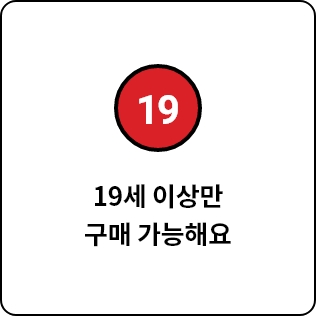
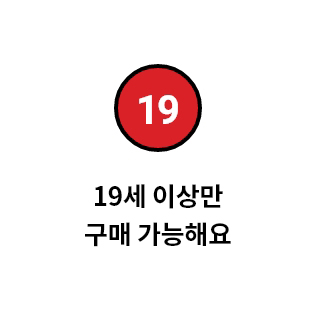
22.06.28

diff --git a/kyobo/mok/html/guide/00_products_list.html b/kyobo/mok/html/guide/00_products_list.html
@@ -132,7 +132,7 @@
                 <li class="prod_item"><!-- 22.05.11 성인 class 삭제 -->
                     <!-- product_pic -->
                     <div class="product_pic">
-                        <a href="javascript:alert('19세');"><img src="../../images/guide/img_19.jpg" class="bd_img" alt=""></a><!-- 22.05.11 수정 -->
+                        <a href="javascript:alert('19세');"><img src="../../images/guide/img_19.jpg" class="bd_img ob_19" alt=""></a><!-- 22.05.11 수정 -->
                     </div>
                     <!-- //product_pic -->
 
@@ -406,7 +406,7 @@
                             <div class="icon"></div>
                             <div class="txt">80</div>
                         </button> 
-                        <a href="javascript:alert('19세');"><img src="../../images/guide/img_19.jpg" class="bd_img" alt=""></a><!-- 22.05.11 수정 -->
+                        <a href="javascript:alert('19세');"><img src="../../images/guide/img_19.jpg" class="bd_img ob_19" alt=""></a><!-- 22.05.11 수정 -->
                     </div>
                     <!-- //product_pic -->
 
@@ -678,7 +678,7 @@
                 <li class="prod_item"><!-- 22.05.11 성인 class 삭제 -->
                     <!-- product_pic -->
                     <div class="product_pic">
-                        <a href="javascript:alert('19세');"><img src="../../images/guide/img_19.jpg" class="bd_img" alt=""></a><!-- 22.05.11 수정 -->
+                        <a href="javascript:alert('19세');"><img src="../../images/guide/img_19.jpg" class="bd_img ob_19" alt=""></a><!-- 22.05.11 수정 -->
                     </div>
                     <!-- //product_pic -->
 
@@ -961,7 +961,7 @@
                 <li class="module6_item">
                     <!-- product_pic -->
                     <div class="product_pic">
-                        <a href="javascript:alert('19세');"><img src="../../images/guide/img_19.jpg" class="bd_img" alt=""></a><!-- 22.05.11 수정 -->
+                        <a href="javascript:alert('19세');"><img src="../../images/guide/img_19.jpg" class="bd_img ob_19" alt=""></a><!-- 22.05.11 수정 -->
                     </div>
                     <!-- //product_pic -->
 
@@ -1725,7 +1725,7 @@
 
                     <!-- product_pic -->
                     <div class="product_pic">
-                        <a href="javascript:alert('19세');"><img src="../../images/guide/img_19.jpg" class="bd_img" alt=""></a><!-- 22.05.11 수정 -->
+                        <a href="javascript:alert('19세');"><img src="../../images/guide/img_19.jpg" class="bd_img ob_19" alt=""></a><!-- 22.05.11 수정 -->
                     </div>
                     <!-- //product_pic -->
 
@@ -2130,7 +2130,7 @@
 
                     <!-- product_pic -->
                     <div class="product_pic">
-                        <a href="javascript:alert('19세');"><img src="../../images/guide/img_19.jpg" class="bd_img" alt=""></a><!-- 22.05.11 수정 -->
+                        <a href="javascript:alert('19세');"><img src="../../images/guide/img_19.jpg" class="bd_img ob_19" alt=""></a><!-- 22.05.11 수정 -->
                     </div>
                     <!-- //product_pic -->
 
@@ -2525,7 +2525,7 @@
                             <div class="icon"></div>
                             <div class="txt">80</div>
                         </button> 
-                        <a href="javascript:alert('19세');"><img src="../../images/guide/img_19.jpg" class="bd_img" alt=""><div class="cpon">쿠폰 10%</div></a><!-- 22.05.11 수정 -->
+                        <a href="javascript:alert('19세');"><img src="../../images/guide/img_19.jpg" class="bd_img ob_19" alt=""><div class="cpon">쿠폰 10%</div></a><!-- 22.05.11 수정 -->
                     </div>
                     <!-- //product_pic -->
 

diff --git a/kyobo/mok/html/music/HTR-M-MUS-MAIN-000.html b/kyobo/mok/html/music/HTR-M-MUS-MAIN-000.html
@@ -848,7 +848,7 @@ if(i>4){
 						<li class="prod_item"><!-- 22.05.11 성인 class 삭제 -->
 							<!-- product_pic -->
 							<div class="product_pic">
-								<a href="javascript:alert('19세');"><img src="../../images/guide/img_19.jpg" class="bd_img" alt=""></a><!-- 22.05.11 수정 -->
+								<a href="javascript:alert('19세');"><img src="../../images/guide/img_19.jpg" class="bd_img ob_19" alt=""></a><!-- 22.05.11 수정 -->
 							</div>
 							<!-- //product_pic -->
 
@@ -1575,7 +1575,7 @@ if(i>4){
 						<li class="prod_item"><!-- 22.05.11 성인 class 삭제 -->
 							<!-- product_pic -->
 							<div class="product_pic">
-								<a href="javascript:alert('19세');"><img src="../../images/guide/img_19.jpg" class="bd_img" alt=""></a><!-- 22.05.11 수정 -->
+								<a href="javascript:alert('19세');"><img src="../../images/guide/img_19.jpg" class="bd_img ob_19" alt=""></a><!-- 22.05.11 수정 -->
 							</div>
 							<!-- //product_pic -->
 
@@ -2183,7 +2183,7 @@ if(i>4){
 			<li class="prod_item"><!-- 22.05.11 성인 class 삭제 -->
 				<!-- product_pic -->
 				<div class="product_pic">
-					<a href="javascript:alert('19세');"><img src="../../images/guide/img_19.jpg" class="bd_img" alt=""></a><!-- 22.05.11 수정 -->
+					<a href="javascript:alert('19세');"><img src="../../images/guide/img_19.jpg" class="bd_img ob_19" alt=""></a><!-- 22.05.11 수정 -->
 				</div>
 				<!-- //product_pic -->
 

diff --git a/kyobo/ink/scss/_ht_products.scss b/kyobo/ink/scss/_ht_products.scss
@@ -98,6 +98,9 @@
 .prod_item {
 	border-radius:4px;overflow:hidden;
 }
+
+
+
 /** product_pic **/
 .product_pic {
 	position:relative;width:100%;height:0;padding-top:100%;background-color:#f7f7f7;border-radius:12px;overflow:hidden;
@@ -112,7 +115,10 @@
 	img {
 		position:absolute;left:0;top:0;width:100%;height:100%;object-fit:cover;transition:transform 0.4s;mix-blend-mode:multiply;
 		&.ob_contain {
-			object-fit:contain;left:10%;top:10%;width:80%;height:80%;mix-blend-mode:multiply;
+			left:10%;top:10%;width:80%;height:80%;object-fit:contain;mix-blend-mode:multiply;
+			&.ob_19 {
+				left:0;top:0;width:100%;height:100%;object-fit:cover;mix-blend-mode:normal;transition:none;
+			}
 		}
 		&.ob_19 {
 			border:1px solid #000;border-radius:12px;box-sizing:border-box;mix-blend-mode:normal;transition:none;
@@ -495,6 +501,9 @@
 			width:100%;height:100%;object-fit:cover;transition:transform 0.4s;mix-blend-mode:multiply;
 			&.ob_contain {
 				position:absolute;object-fit:contain;left:5%;top:5%;width:90%;height:90%;
+				&.ob_19 {
+					left:0;top:0;width:100%;height:100%;object-fit:cover;mix-blend-mode:normal;transition:none;
+				}
 			}
 			&.ob_19 {
 				transition:none;border:1px solid #000;border-radius:12px;box-sizing:border-box;mix-blend-mode:normal;

diff --git a/kyobo/mok/html/music/HTR-M-MUS-LIST-002.html b/kyobo/mok/html/music/HTR-M-MUS-LIST-002.html
@@ -170,7 +170,7 @@
                 <li class="prod_item"><!-- 22.05.11 성인 class 삭제 -->
                     <!-- product_pic -->
                     <div class="product_pic">
-                        <a href="javascript:alert('19세');"><img src="../../images/guide/img_19.jpg" class="bd_img" alt=""></a><!-- 22.05.11 수정 -->
+                        <a href="javascript:alert('19세');"><img src="../../images/guide/img_19.jpg" class="bd_img ob_19" alt=""></a><!-- 22.05.11 수정 -->
                     </div>
                     <!-- //product_pic -->
 
@@ -425,7 +425,7 @@
                 <li class="prod_item"><!-- 22.05.11 성인 class 삭제 -->
                     <!-- product_pic -->
                     <div class="product_pic">
-                        <a href="javascript:alert('19세');"><img src="../../images/guide/img_19.jpg" class="bd_img" alt=""></a><!-- 22.05.11 수정 -->
+                        <a href="javascript:alert('19세');"><img src="../../images/guide/img_19.jpg" class="bd_img ob_19" alt=""></a><!-- 22.05.11 수정 -->
                     </div>
                     <!-- //product_pic -->
 

diff --git a/kyobo/mok/html/category/HTR-M-CTG-LIST-001.html b/kyobo/mok/html/category/HTR-M-CTG-LIST-001.html
@@ -467,7 +467,7 @@ $(function(){
 				<li class="prod_item"><!-- 22.05.11 성인 class 삭제 -->
 					<!-- product_pic -->
 					<div class="product_pic">
-						<a href="javascript:alert('19세');"><img src="../../images/guide/img_19.jpg" class="bd_img" alt=""></a><!-- 22.05.11 수정 -->
+						<a href="javascript:alert('19세');"><img src="../../images/guide/img_19.jpg" class="bd_img ob_19" alt=""></a><!-- 22.05.11 수정 -->
 					</div>
 					<!-- //product_pic -->
 
@@ -722,7 +722,7 @@ $(function(){
 				<li class="prod_item"><!-- 22.05.11 성인 class 삭제 -->
 					<!-- product_pic -->
 					<div class="product_pic">
-						<a href="javascript:alert('19세');"><img src="../../images/guide/img_19.jpg" class="bd_img" alt=""></a><!-- 22.05.11 수정 -->
+						<a href="javascript:alert('19세');"><img src="../../images/guide/img_19.jpg" class="bd_img ob_19" alt=""></a><!-- 22.05.11 수정 -->
 					</div>
 					<!-- //product_pic -->
 

diff --git a/kyobo/mok/html/category/HTR-M-CTG-LIST-002.html b/kyobo/mok/html/category/HTR-M-CTG-LIST-002.html
@@ -402,7 +402,7 @@ $(function(){
 				<li class="prod_item"><!-- 22.05.11 성인 class 삭제 -->
 					<!-- product_pic -->
 					<div class="product_pic">
-						<a href="javascript:alert('19세');"><img src="../../images/guide/img_19.jpg" class="bd_img" alt=""></a><!-- 22.05.11 수정 -->
+						<a href="javascript:alert('19세');"><img src="../../images/guide/img_19.jpg" class="bd_img ob_19" alt=""></a><!-- 22.05.11 수정 -->
 					</div>
 					<!-- //product_pic -->
 
@@ -657,7 +657,7 @@ $(function(){
 				<li class="prod_item"><!-- 22.05.11 성인 class 삭제 -->
 					<!-- product_pic -->
 					<div class="product_pic">
-						<a href="javascript:alert('19세');"><img src="../../images/guide/img_19.jpg" class="bd_img" alt=""></a><!-- 22.05.11 수정 -->
+						<a href="javascript:alert('19세');"><img src="../../images/guide/img_19.jpg" class="bd_img ob_19" alt=""></a><!-- 22.05.11 수정 -->
 					</div>
 					<!-- //product_pic -->
 

diff --git a/kyobo/mok/html/category/HTR-M-CTG-LIST-003.html b/kyobo/mok/html/category/HTR-M-CTG-LIST-003.html
@@ -402,7 +402,7 @@ $(function(){
 				<li class="prod_item"><!-- 22.05.11 성인 class 삭제 -->
 					<!-- product_pic -->
 					<div class="product_pic">
-						<a href="javascript:alert('19세');"><img src="../../images/guide/img_19.jpg" class="bd_img" alt=""></a><!-- 22.05.11 수정 -->
+						<a href="javascript:alert('19세');"><img src="../../images/guide/img_19.jpg" class="bd_img ob_19" alt=""></a><!-- 22.05.11 수정 -->
 					</div>
 					<!-- //product_pic -->
 
@@ -657,7 +657,7 @@ $(function(){
 				<li class="prod_item"><!-- 22.05.11 성인 class 삭제 -->
 					<!-- product_pic -->
 					<div class="product_pic">
-						<a href="javascript:alert('19세');"><img src="../../images/guide/img_19.jpg" class="bd_img" alt=""></a><!-- 22.05.11 수정 -->
+						<a href="javascript:alert('19세');"><img src="../../images/guide/img_19.jpg" class="bd_img ob_19" alt=""></a><!-- 22.05.11 수정 -->
 					</div>
 					<!-- //product_pic -->
 

diff --git a/kyobo/ink/css/ht_css_ink.css b/kyobo/ink/css/ht_css_ink.css
@@ -4501,13 +4501,25 @@ input {
 }
 
 .product_pic img.ob_contain {
-  -o-object-fit: contain;
-     object-fit: contain;
   left: 10%;
   top: 10%;
   width: 80%;
   height: 80%;
+  -o-object-fit: contain;
+     object-fit: contain;
   mix-blend-mode: multiply;
+}
+
+.product_pic img.ob_contain.ob_19 {
+  left: 0;
+  top: 0;
+  width: 100%;
+  height: 100%;
+  -o-object-fit: cover;
+     object-fit: cover;
+  mix-blend-mode: normal;
+  -webkit-transition: none;
+  transition: none;
 }
 
 .product_pic img.ob_19 {
@@ -5352,6 +5364,18 @@ input {
   top: 5%;
   width: 90%;
   height: 90%;
+}
+
+.small_pics_area li img.ob_contain.ob_19 {
+  left: 0;
+  top: 0;
+  width: 100%;
+  height: 100%;
+  -o-object-fit: cover;
+     object-fit: cover;
+  mix-blend-mode: normal;
+  -webkit-transition: none;
+  transition: none;
 }
 
 .small_pics_area li img.ob_19 {

diff --git a/kyobo/ink/scss/ht_products_view.scss b/kyobo/ink/scss/ht_products_view.scss
@@ -46,6 +46,11 @@
             img {
                 width:90%;height:90%;margin:5%;object-fit:contain;mix-blend-mode:multiply;
             }
+			&.ob_19 {
+                img {
+                    left:0;top:0;width:100%;height:100%;object-fit:cover;mix-blend-mode:normal;transition:none;
+                }
+			}
         }
     }
 }
@@ -72,6 +77,11 @@
             &.ob_contain {
                 img {
                     left:10%;top:10%;width:80%;height:80%;transform:translate(0,0);object-fit:contain;mix-blend-mode:multiply;
+                }
+                &.ob_19 {
+                    img {
+                        left:0;top:0;width:100%;height:100%;object-fit:cover;mix-blend-mode:normal;transition:none;
+                    }
                 }
             }         
         }

diff --git a/kyobo/ink/css/ht_products_view.css b/kyobo/ink/css/ht_products_view.css
@@ -73,6 +73,18 @@
   mix-blend-mode: multiply;
 }
 
+.prod_view_img .img.ob_contain.ob_19 img {
+  left: 0;
+  top: 0;
+  width: 100%;
+  height: 100%;
+  -o-object-fit: cover;
+     object-fit: cover;
+  mix-blend-mode: normal;
+  -webkit-transition: none;
+  transition: none;
+}
+
 /* prod_view_img_thumb */
 .prod_view_img_thumb {
   position: relative;
@@ -148,6 +160,18 @@
   -o-object-fit: contain;
      object-fit: contain;
   mix-blend-mode: multiply;
+}
+
+.prod_view_img_thumb .swiper-slide .img.ob_contain.ob_19 img {
+  left: 0;
+  top: 0;
+  width: 100%;
+  height: 100%;
+  -o-object-fit: cover;
+     object-fit: cover;
+  mix-blend-mode: normal;
+  -webkit-transition: none;
+  transition: none;
 }
 
 .prod_view_img_thumb .swiper-slide.swiper-slide-thumb-active .img {

diff --git a/kyobo/mok/css/ht_css_mok.css b/kyobo/mok/css/ht_css_mok.css
@@ -14528,6 +14528,34 @@ body:before {
   width: 100% !important;
 }
 
+/* 이미지 리사이징 */
+.ob_contain {
+  left: 10% !important;
+  top: 10% !important;
+  width: 80% !important;
+  height: 80% !important;
+  -o-object-fit: contain !important;
+     object-fit: contain !important;
+}
+
+.ob_contain.ob_19 {
+  left: 0 !important;
+  top: 0 !important;
+  width: 100% !important;
+  height: 100% !important;
+  -o-object-fit: cover !important;
+     object-fit: cover !important;
+  mix-blend-mode: normal !important;
+}
+
+.ob_19 {
+  -o-object-fit: cover !important;
+     object-fit: cover !important;
+  mix-blend-mode: normal !important;
+  border: 1px solid #000;
+  border-radius: 8px;
+}
+
 .nonswipe {
   padding-right: 0px !important;
 }

diff --git a/kyobo/mok/html/info/HTR-M-COM-VIEW-000_new_bk.html b/kyobo/mok/html/info/HTR-M-COM-VIEW-000_new_bk.html
@@ -1855,7 +1855,7 @@ $(function(){
                                     <li class="prod_item"><!-- 22.05.11 성인 class 삭제 -->
                                         <!-- product_pic -->
                                         <div class="product_pic">
-                                            <a href="javascript:alert('19세');"><img src="../../images/guide/img_19.jpg" class="bd_img" alt=""></a><!-- 22.05.11 수정 -->
+                                            <a href="javascript:alert('19세');"><img src="../../images/guide/img_19.jpg" class="bd_img ob_19" alt=""></a><!-- 22.05.11 수정 -->
                                         </div>
                                         <!-- //product_pic -->
 
